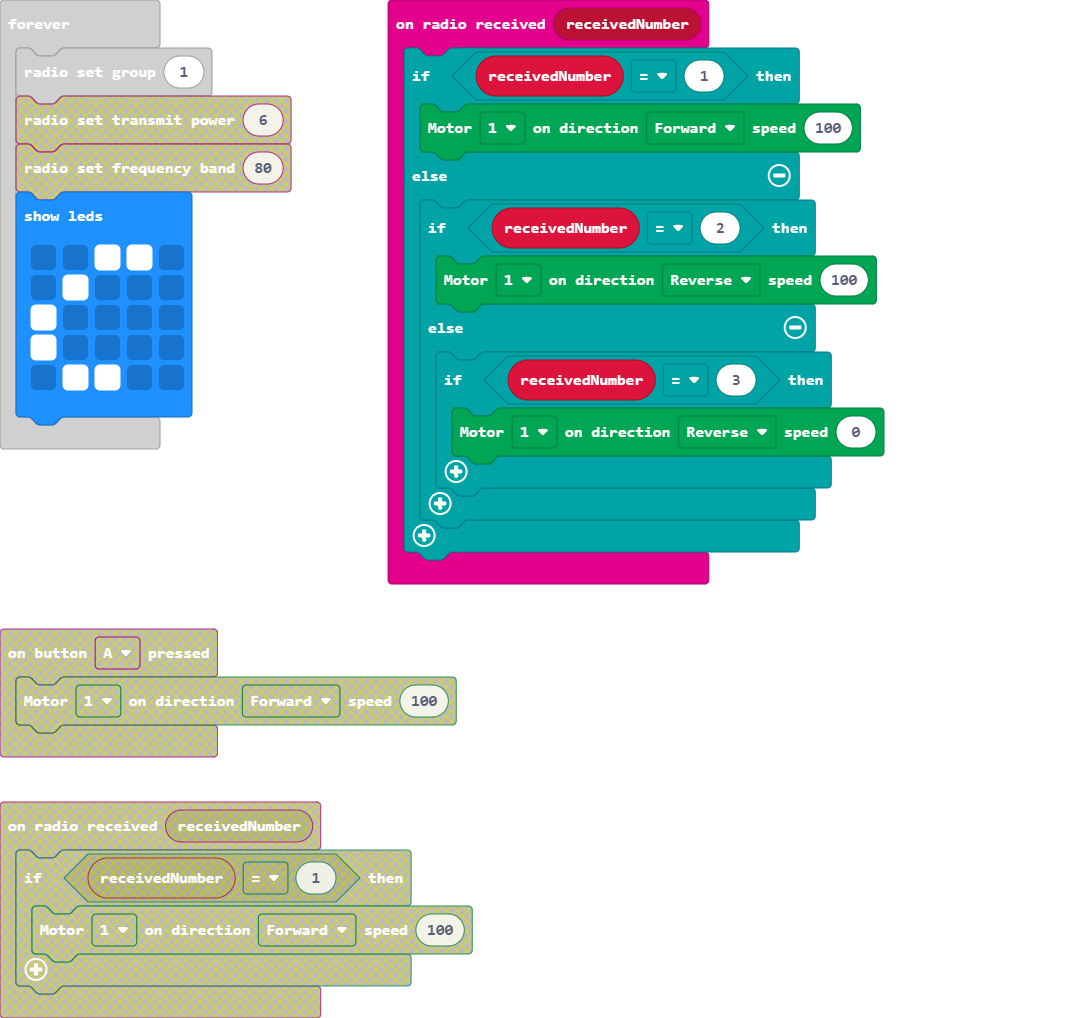
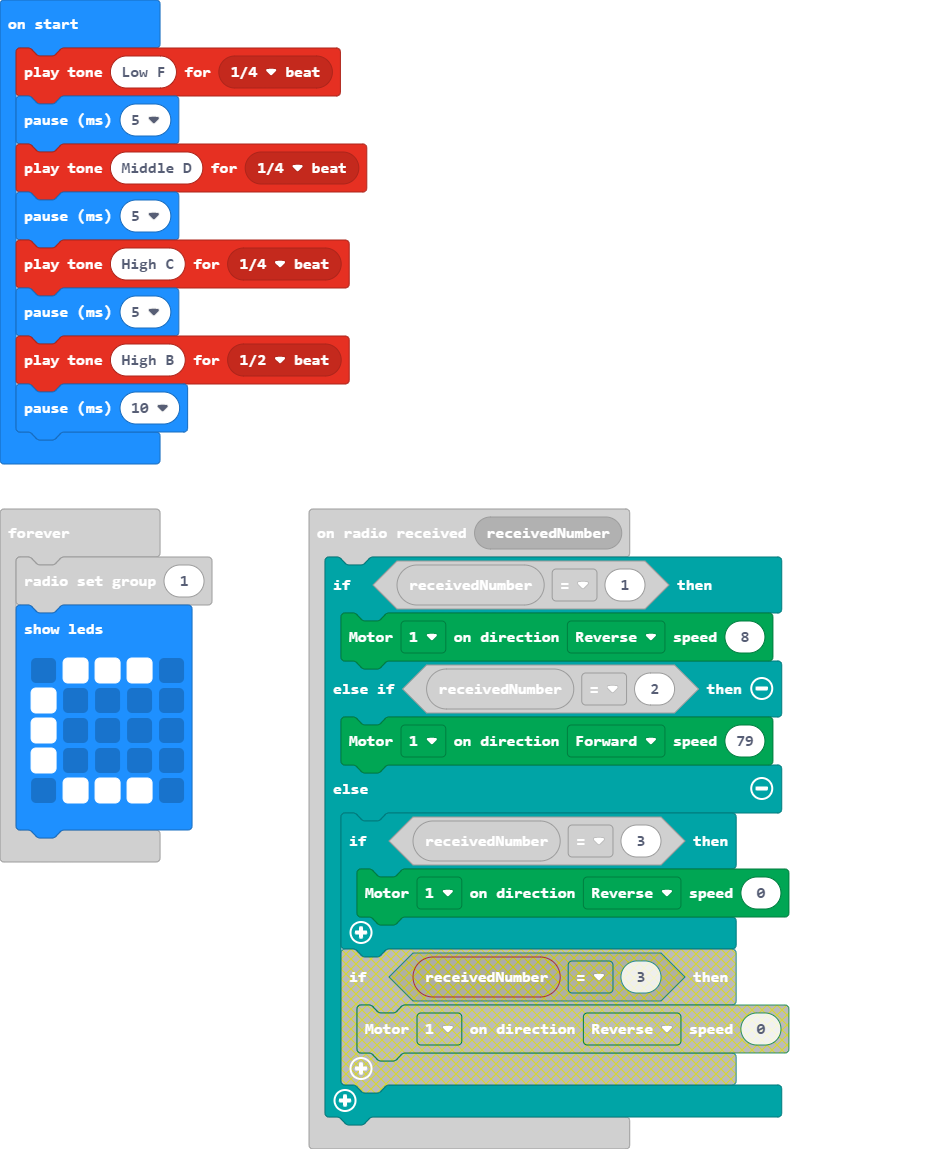
Update main.blocks, main.ts

diff --git a/main.ts b/main.ts
@@ -1,23 +1,29 @@
 radio.onReceivedNumber(function (receivedNumber) {
     if (receivedNumber == 1) {
-        Kitronik_Robotics_Board.motorOn(Kitronik_Robotics_Board.Motors.Motor1, Kitronik_Robotics_Board.MotorDirection.Forward, 100)
+        Kitronik_Robotics_Board.motorOn(Kitronik_Robotics_Board.Motors.Motor1, Kitronik_Robotics_Board.MotorDirection.Reverse, 8)
+    } else if (receivedNumber == 2) {
+        Kitronik_Robotics_Board.motorOn(Kitronik_Robotics_Board.Motors.Motor1, Kitronik_Robotics_Board.MotorDirection.Forward, 79)
     } else {
-        if (receivedNumber == 2) {
-            Kitronik_Robotics_Board.motorOn(Kitronik_Robotics_Board.Motors.Motor1, Kitronik_Robotics_Board.MotorDirection.Reverse, 100)
-        } else {
-            if (receivedNumber == 3) {
-                Kitronik_Robotics_Board.motorOn(Kitronik_Robotics_Board.Motors.Motor1, Kitronik_Robotics_Board.MotorDirection.Reverse, 0)
-            }
+        if (receivedNumber == 3) {
+            Kitronik_Robotics_Board.motorOn(Kitronik_Robotics_Board.Motors.Motor1, Kitronik_Robotics_Board.MotorDirection.Reverse, 0)
         }
     }
 })
+music.playTone(175, music.beat(BeatFraction.Quarter))
+basic.pause(5)
+music.playTone(294, music.beat(BeatFraction.Quarter))
+basic.pause(5)
+music.playTone(523, music.beat(BeatFraction.Quarter))
+basic.pause(5)
+music.playTone(988, music.beat(BeatFraction.Half))
+basic.pause(10)
 basic.forever(function () {
     radio.setGroup(1)
     basic.showLeds(`
-        . . # # .
-        . # . . .
+        . # # # .
         # . . . .
         # . . . .
-        . # # . .
+        # . . . .
+        . # # # .
         `)
 })
